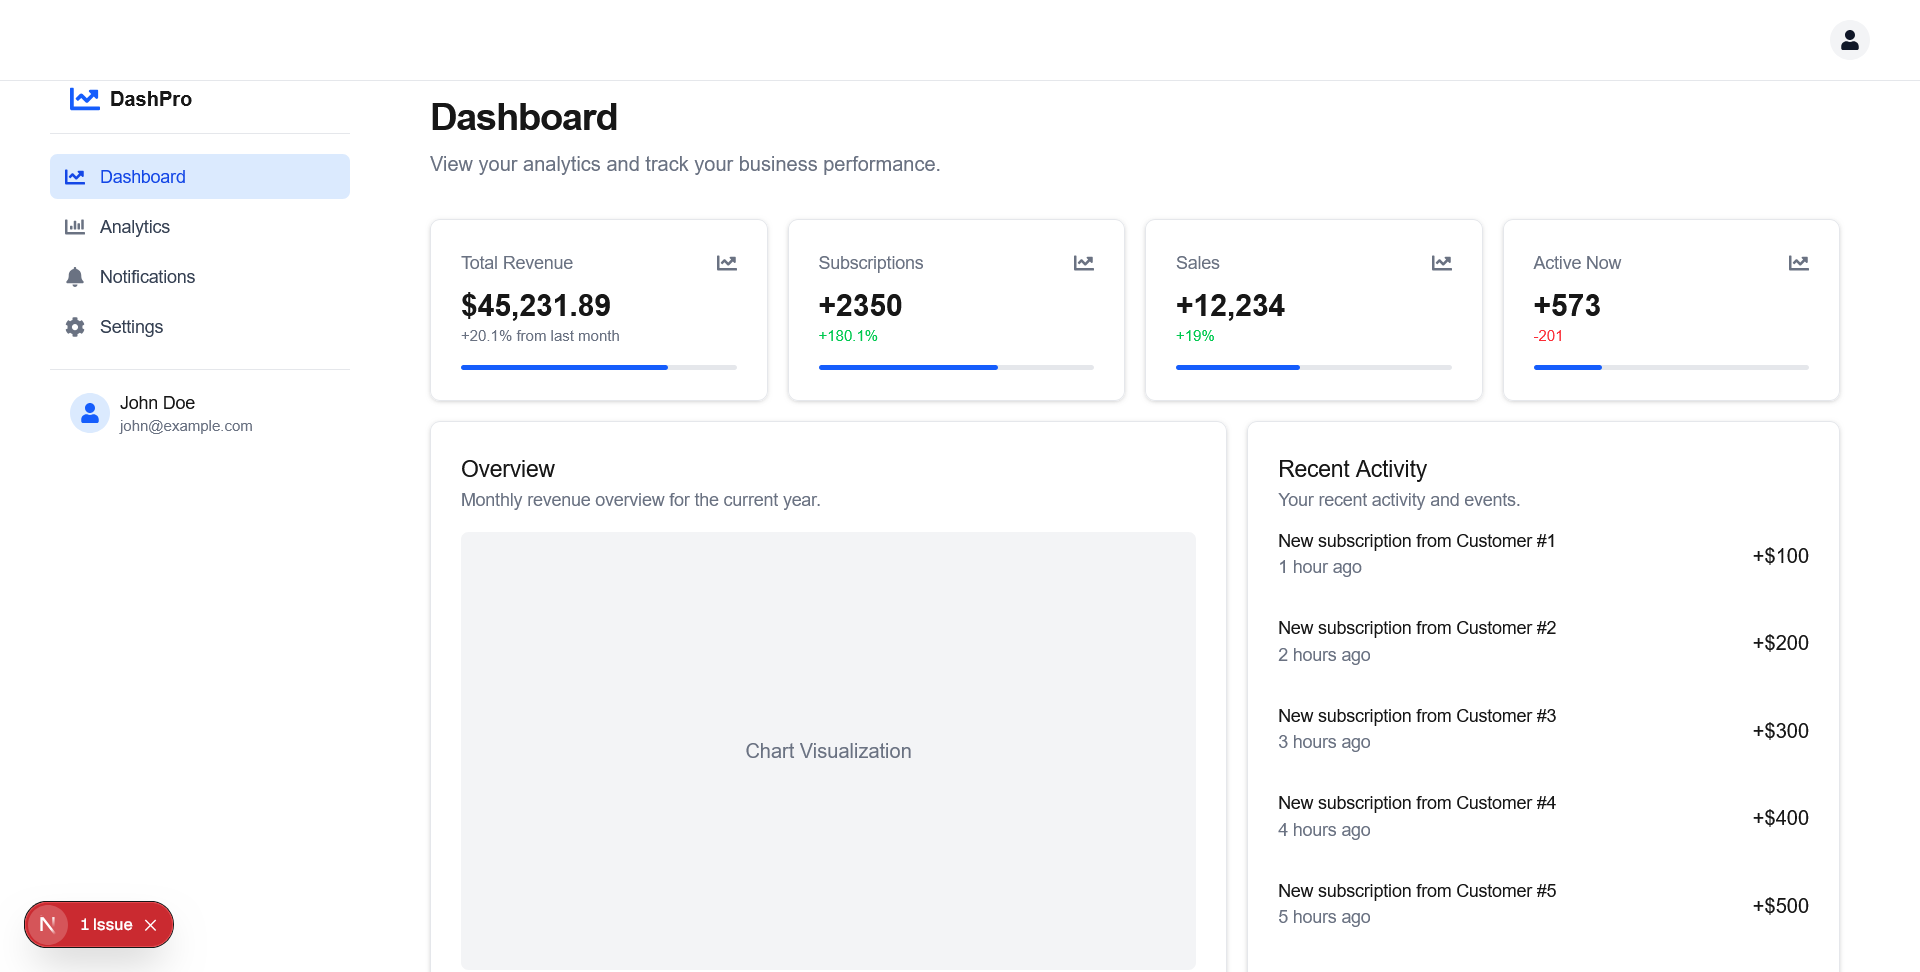
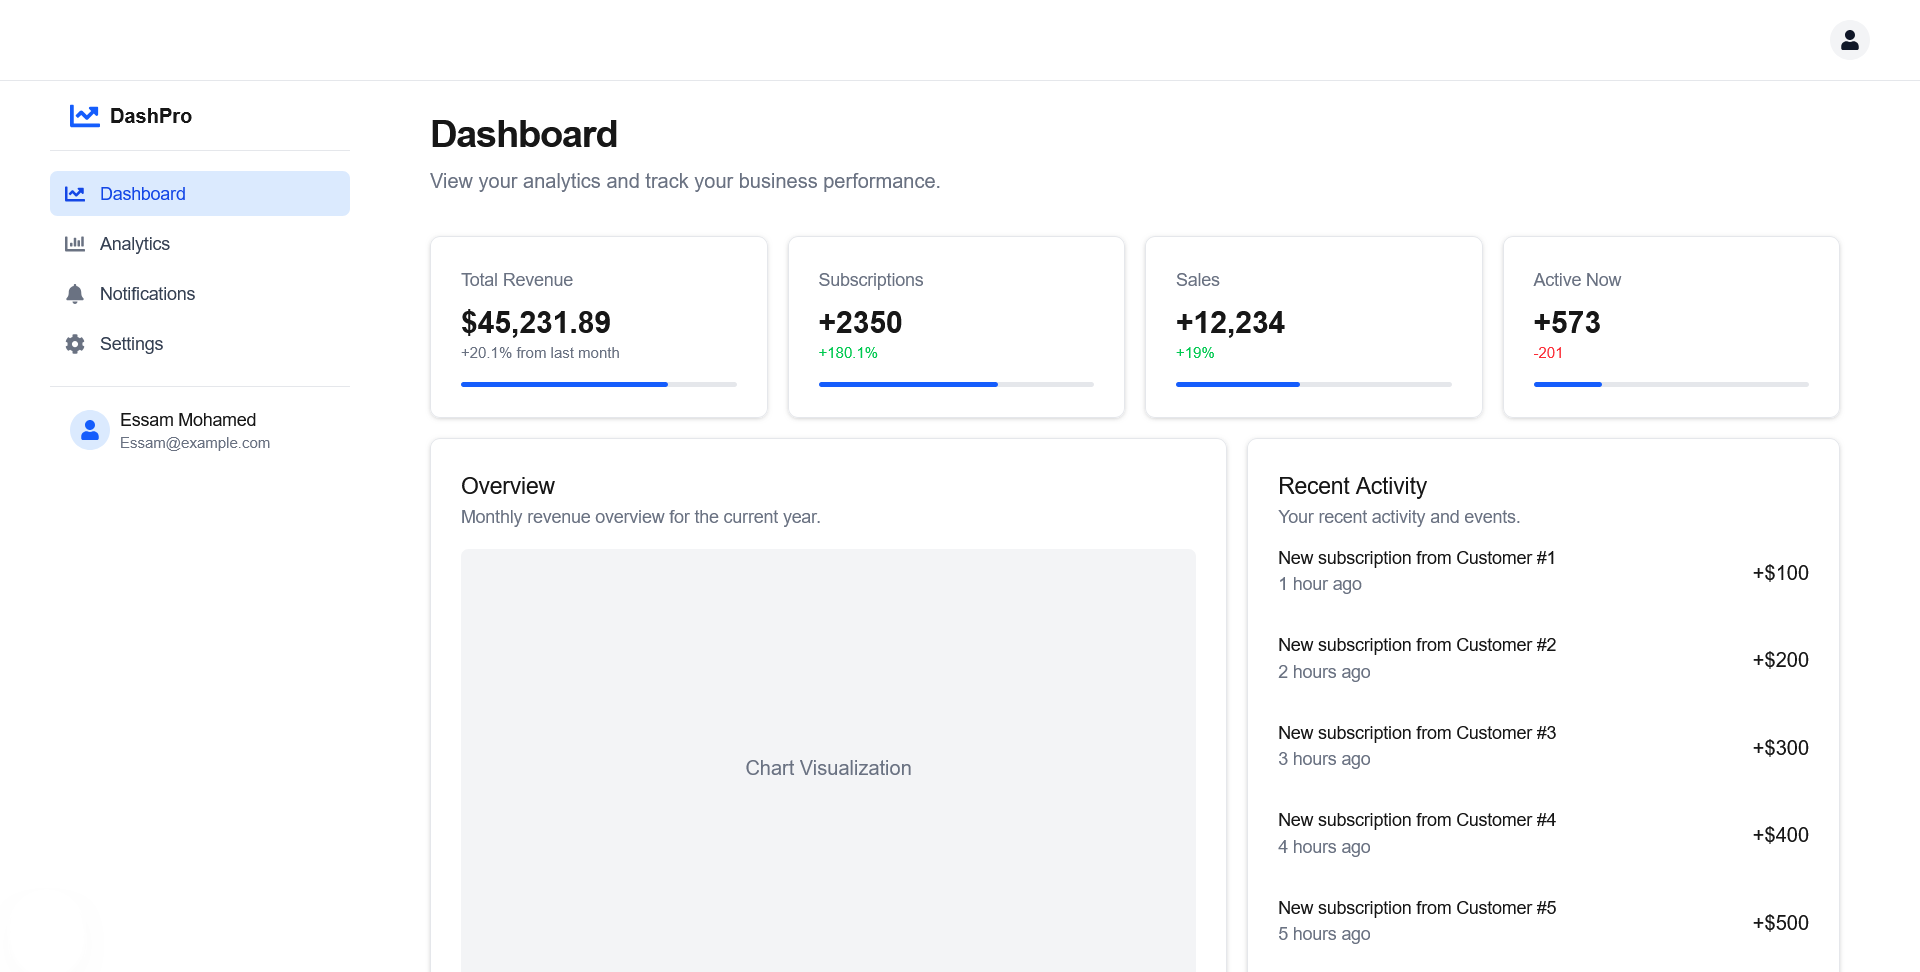
update

diff --git a/app/(pages)/dashboard/page.tsx b/app/(pages)/dashboard/page.tsx
@@ -1,103 +1,50 @@
-import { FaChartLine } from "react-icons/fa"
+import HeaderSection from "@/components/HeaderSection";
+import Card from "@/components/Card";
+import OverviewChart from "@/components/OverviewChart";
+import RecentActivity from "@/components/RecentActivity";
 
 export default function DashboardPage() {
   return (
     <div className="flex min-h-screen flex-col space-y-6">
       <div className="flex-1 space-y-4">
-        <div className="mb-8 flex flex-col gap-2">
-          <h1 className="text-3xl font-bold tracking-tight">Dashboard</h1>
-          <p className="text-gray-500">View your analytics and track your business performance.</p>
-        </div>
+        <HeaderSection />
 
         <div className="grid gap-4 md:grid-cols-2 lg:grid-cols-4">
-          {/* Card 1 */}
-          <div className="rounded-lg border border-gray-200 bg-white p-6 shadow-sm">
-            <div className="flex flex-row items-center justify-between space-y-0 pb-2">
-              <h3 className="text-sm font-medium text-gray-500">Total Revenue</h3>
-              <FaChartLine className="h-4 w-4 text-gray-500" />
-            </div>
-            <div className="text-2xl font-bold">$45,231.89</div>
-            <p className="text-xs text-gray-500">+20.1% from last month</p>
-            <div className="mt-4 h-1 w-full rounded-full bg-gray-200">
-              <div className="h-1 w-[75%] rounded-full bg-blue-600"></div>
-            </div>
-          </div>
-
-          {/* Card 2 */}
-          <div className="rounded-lg border border-gray-200 bg-white p-6 shadow-sm">
-            <div className="flex flex-row items-center justify-between space-y-0 pb-2">
-              <h3 className="text-sm font-medium text-gray-500">Subscriptions</h3>
-              <FaChartLine className="h-4 w-4 text-gray-500" />
-            </div>
-            <div className="text-2xl font-bold">+2350</div>
-            <p className="text-xs text-green-500">+180.1%</p>
-            <div className="mt-4 h-1 w-full rounded-full bg-gray-200">
-              <div className="h-1 w-[65%] rounded-full bg-blue-600"></div>
-            </div>
-          </div>
-
-          {/* Card 3 */}
-          <div className="rounded-lg border border-gray-200 bg-white p-6 shadow-sm">
-            <div className="flex flex-row items-center justify-between space-y-0 pb-2">
-              <h3 className="text-sm font-medium text-gray-500">Sales</h3>
-              <FaChartLine className="h-4 w-4 text-gray-500" />
-            </div>
-            <div className="text-2xl font-bold">+12,234</div>
-            <p className="text-xs text-green-500">+19%</p>
-            <div className="mt-4 h-1 w-full rounded-full bg-gray-200">
-              <div className="h-1 w-[45%] rounded-full bg-blue-600"></div>
-            </div>
-          </div>
-
-          {/* Card 4 */}
-          <div className="rounded-lg border border-gray-200 bg-white p-6 shadow-sm">
-            <div className="flex flex-row items-center justify-between space-y-0 pb-2">
-              <h3 className="text-sm font-medium text-gray-500">Active Now</h3>
-              <FaChartLine className="h-4 w-4 text-gray-500" />
-            </div>
-            <div className="text-2xl font-bold">+573</div>
-            <p className="text-xs text-red-500">-201</p>
-            <div className="mt-4 h-1 w-full rounded-full bg-gray-200">
-              <div className="h-1 w-[25%] rounded-full bg-blue-600"></div>
-            </div>
-          </div>
+          <Card
+            title="Total Revenue"
+            value="$45,231.89"
+            percentage="+20.1% from last month"
+            percentageColor="text-gray-500"
+            progress={75}
+          />
+          <Card
+            title="Subscriptions"
+            value="+2350"
+            percentage="+180.1%"
+            percentageColor="text-green-500"
+            progress={65}
+          />
+          <Card
+            title="Sales"
+            value="+12,234"
+            percentage="+19%"
+            percentageColor="text-green-500"
+            progress={45}
+          />
+          <Card
+            title="Active Now"
+            value="+573"
+            percentage="-201"
+            percentageColor="text-red-500"
+            progress={25}
+          />
         </div>
 
         <div className="grid gap-4 md:grid-cols-2 lg:grid-cols-7">
-          {/* Overview Chart */}
-          <div className="col-span-4 rounded-lg border border-gray-200 bg-white p-6 shadow-sm">
-            <div className="mb-4">
-              <h3 className="text-lg font-medium">Overview</h3>
-              <p className="text-sm text-gray-500">Monthly revenue overview for the current year.</p>
-            </div>
-            <div className="h-[350px] w-full bg-gray-100 rounded-md flex items-center justify-center">
-              <p className="text-gray-500">Chart Visualization</p>
-            </div>
-          </div>
-
-          {/* Recent Activity */}
-          <div className="col-span-3 rounded-lg border border-gray-200 bg-white p-6 shadow-sm">
-            <div className="mb-4">
-              <h3 className="text-lg font-medium">Recent Activity</h3>
-              <p className="text-sm text-gray-500">Your recent activity and events.</p>
-            </div>
-            <div className="space-y-8">
-              {[1, 2, 3, 4, 5].map((i) => (
-                <div className="flex items-center" key={i}>
-                  <div className="space-y-1">
-                    <p className="text-sm font-medium leading-none">New subscription from Customer #{i}</p>
-                    <p className="text-sm text-gray-500">
-                      {i} hour{i !== 1 ? "s" : ""} ago
-                    </p>
-                  </div>
-                  <div className="ml-auto font-medium">+${i * 100}</div>
-                </div>
-              ))}
-            </div>
-          </div>
+          <OverviewChart />
+          <RecentActivity />
         </div>
       </div>
     </div>
-  )
+  );
 }
-

diff --git a/components/TestimonialsSection.tsx b/components/TestimonialsSection.tsx
@@ -7,21 +7,21 @@ export default function TestimonialsSection() {
       role: "CEO, TechStart",
       quote:
         "This dashboard has completely transformed how we track our business metrics. The interface is intuitive and the insights are invaluable. We've increased our revenue by 27% since implementing DashPro.",
-      image: "/placeholder.svg?height=100&width=100",
+      image: "/man.png",
     },
     {
       name: "Michael Chen",
       role: "CTO, DataFlow",
       quote:
         "The real-time analytics have helped us identify trends and make data-driven decisions faster than ever before. The AI-powered insights are like having an extra analyst on the team.",
-      image: "/placeholder.svg?height=100&width=100",
+      image: "/man.png",
     },
     {
       name: "Jennifer Lopez",
       role: "COO, Enterprise Global",
       quote:
         "We evaluated several dashboard solutions before choosing DashPro, and it was the best decision we made. The customizable reports, team collaboration features, and enterprise-grade security have made it an essential tool for our entire organization.",
-      image: "/placeholder.svg?height=100&width=100",
+      image: "/man.png",
     },
   ];
 

diff --git a/components/Card.tsx b/components/Card.tsx
@@ -1,0 +1,35 @@
+import { IconType } from "react-icons";
+interface CardProps {
+  title: string;
+  value: string | number;
+  percentage: string;
+  percentageColor: string;
+  progress: number;
+  icon?: IconType;
+}
+
+export default function Card({
+  title,
+  value,
+  percentage,
+  percentageColor,
+  progress,
+  icon: Icon,
+}: CardProps) {
+  return (
+    <div className="rounded-lg border border-gray-200 bg-white p-6 shadow-sm">
+      <div className="flex flex-row items-center justify-between space-y-0 pb-2">
+        <h3 className="text-sm font-medium text-gray-500">{title}</h3>
+        {Icon ? <Icon className="h-4 w-4 text-gray-500" /> : null}
+      </div>
+      <div className="text-2xl font-bold">{value}</div>
+      <p className={`text-xs ${percentageColor}`}>{percentage}</p>
+      <div className="mt-4 h-1 w-full rounded-full bg-gray-200">
+        <div
+          className="h-1 rounded-full bg-blue-600"
+          style={{ width: `${progress}%` }}
+        ></div>
+      </div>
+    </div>
+  );
+}

diff --git a/components/RecentActivity.tsx b/components/RecentActivity.tsx
@@ -1,0 +1,23 @@
+export default function RecentActivity() {
+    return (
+      <div className="col-span-3 rounded-lg border border-gray-200 bg-white p-6 shadow-sm">
+        <div className="mb-4">
+          <h3 className="text-lg font-medium">Recent Activity</h3>
+          <p className="text-sm text-gray-500">Your recent activity and events.</p>
+        </div>
+        <div className="space-y-8">
+          {[1, 2, 3, 4, 5].map((i) => (
+            <div className="flex items-center" key={i}>
+              <div className="space-y-1">
+                <p className="text-sm font-medium leading-none">New subscription from Customer #{i}</p>
+                <p className="text-sm text-gray-500">
+                  {i} hour{i !== 1 ? "s" : ""} ago
+                </p>
+              </div>
+              <div className="ml-auto font-medium">+${i * 100}</div>
+            </div>
+          ))}
+        </div>
+      </div>
+    );
+  }

diff --git a/components/OverviewChart.tsx b/components/OverviewChart.tsx
@@ -1,0 +1,13 @@
+export default function OverviewChart() {
+    return (
+      <div className="col-span-4 rounded-lg border border-gray-200 bg-white p-6 shadow-sm">
+        <div className="mb-4">
+          <h3 className="text-lg font-medium">Overview</h3>
+          <p className="text-sm text-gray-500">Monthly revenue overview for the current year.</p>
+        </div>
+        <div className="h-[350px] w-full bg-gray-100 rounded-md flex items-center justify-center">
+          <p className="text-gray-500">Chart Visualization</p>
+        </div>
+      </div>
+    );
+  }

diff --git a/components/Header.tsx b/components/Header.tsx
@@ -3,7 +3,7 @@ import { FaChartLine } from "react-icons/fa";
 
 export default function Header() {
   return (
-    <header className="sticky top-0 z-50 w-full border-b bg-white/95 backdrop-blur supports-[backdrop-filter]:bg-white/60">
+    <header className="sticky top-0 z-50 w-full bg-white/95 backdrop-blur supports-[backdrop-filter]:bg-white/60">
       <div className="container mx-auto flex h-16 items-center space-x-4 sm:justify-between sm:space-x-0 px-4">
         <div className="flex gap-6 md:gap-10">
           <Link href="/" className="flex items-center space-x-2">

diff --git a/components/HeaderSection.tsx b/components/HeaderSection.tsx
@@ -1,0 +1,8 @@
+export default function HeaderSection() {
+    return (
+      <div className="mb-8 flex flex-col gap-2">
+        <h1 className="text-3xl font-bold tracking-tight">Dashboard</h1>
+        <p className="text-gray-500">View your analytics and track your business performance.</p>
+      </div>
+    );
+  }

diff --git a/app/globals.css b/app/globals.css
@@ -1,5 +1,9 @@
 @import "tailwindcss";
 
+* {
+  scroll-behavior: smooth;
+}
+
 :root {
   --background: #ffffff;
   --foreground: #171717;
